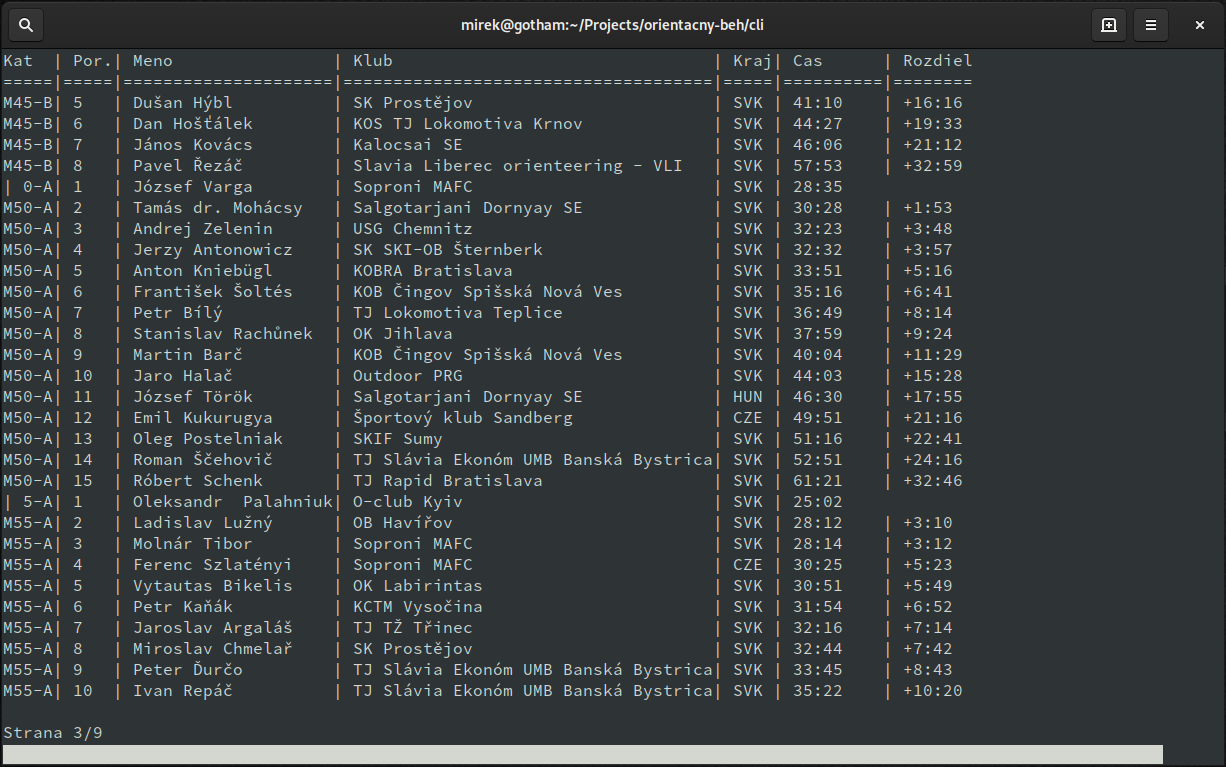
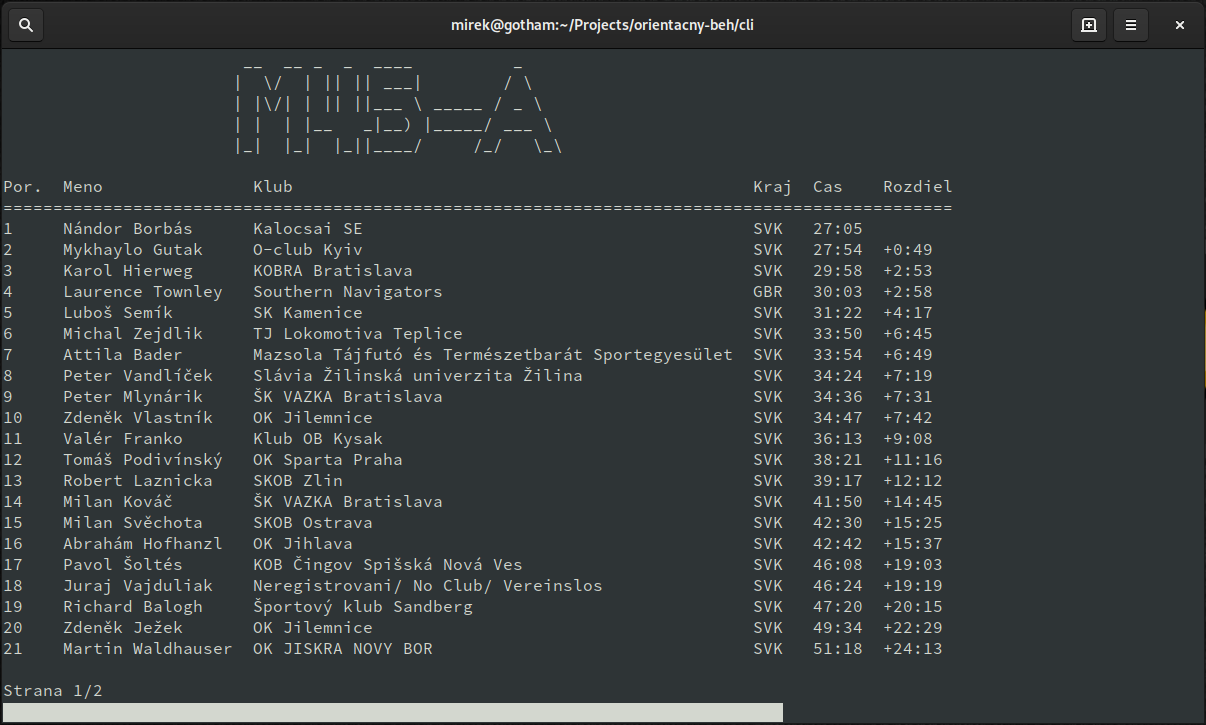
refaktoring
* doplnene info o instalacii nastrojov
* pridana moznost zobrazovat vysledky podla kategorii
	* nadpis kategorie cez figlet
* aktualizovany screenshot
* jemna oprava .csv suboru

diff --git a/cli/readme.md b/cli/readme.md
@@ -1,10 +1,20 @@
 # Konzolový klient
 
-Treba nastaviť príznak na spúšťanie:
+Jednoduchý konzolový klient.
+
+
+## Inštalácia
+
+Pred spustením treba nainštalovať balíky `figlet` a `bc`, pokiaľ sa nenachádzajú vo vašom systéme.
+
+Treba taktiež nastaviť príznak na spúšťanie:
 
 ```bash
 chmod +x client.sh
 ```
+
+
+## Spustenie
 
 Použitie:
 
@@ -21,6 +31,7 @@ V skripte sa nachádza niekoľko premenných:
 * `URL` - URL adresa, z ktorej sa stiahne CSV súbor s výsledkami.
 * `HEADER` - Zoznam položiek hlavičky.
 * `DELAY` - Čas v sekundách, ako dlho sa bude zobrazovať jedna stránka výsledkov.
+* `CATEGORIES` - Zoznam kategórií, ktoré majú byť vypísané.
 
 
 ## Screenshot
